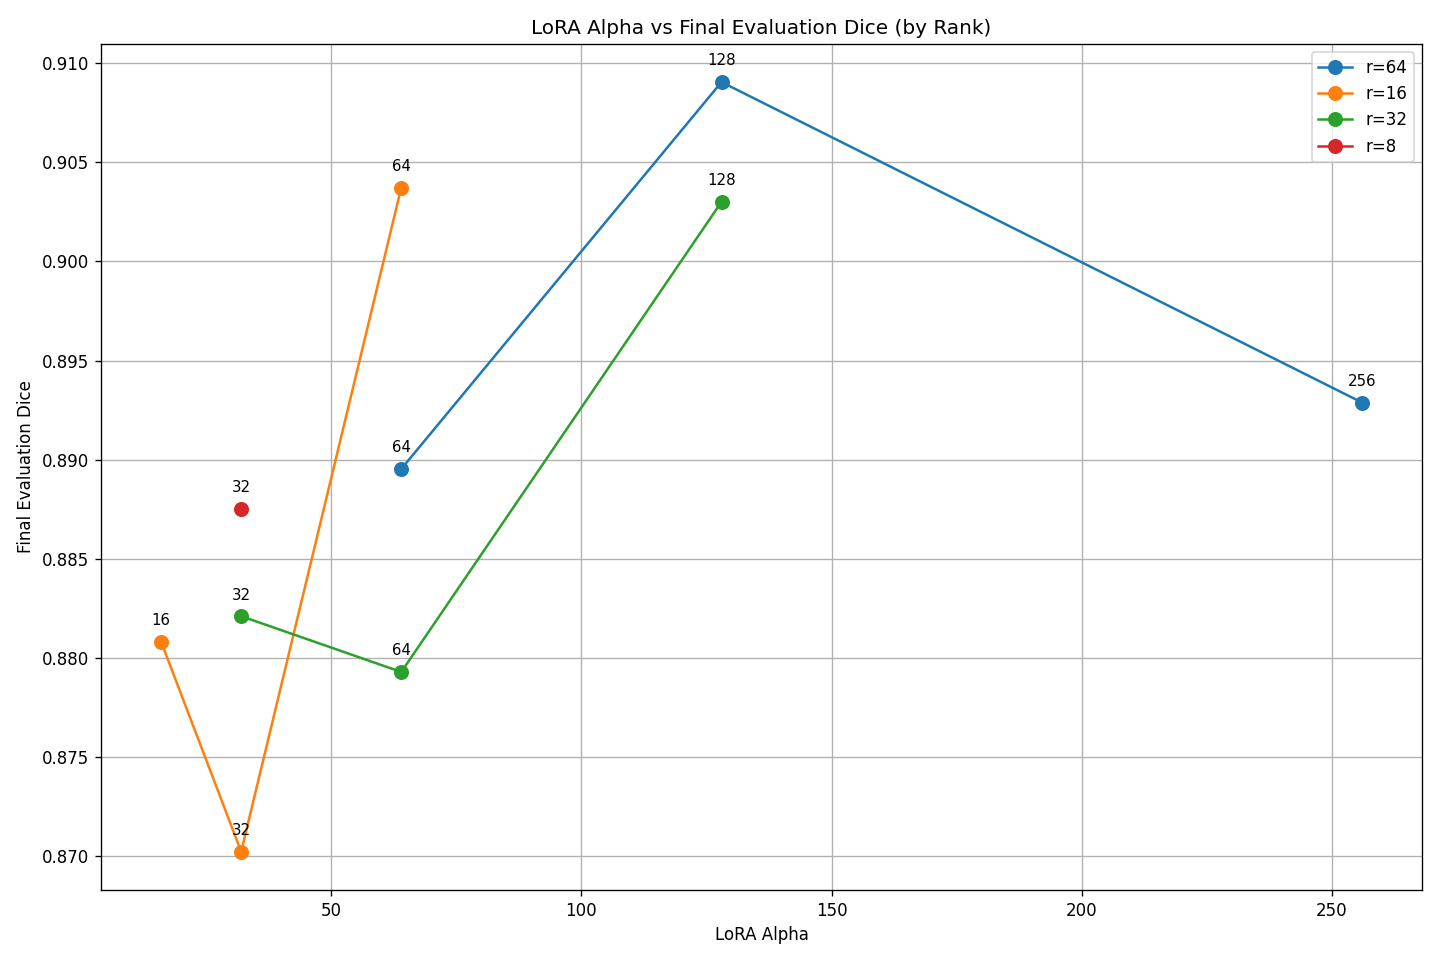
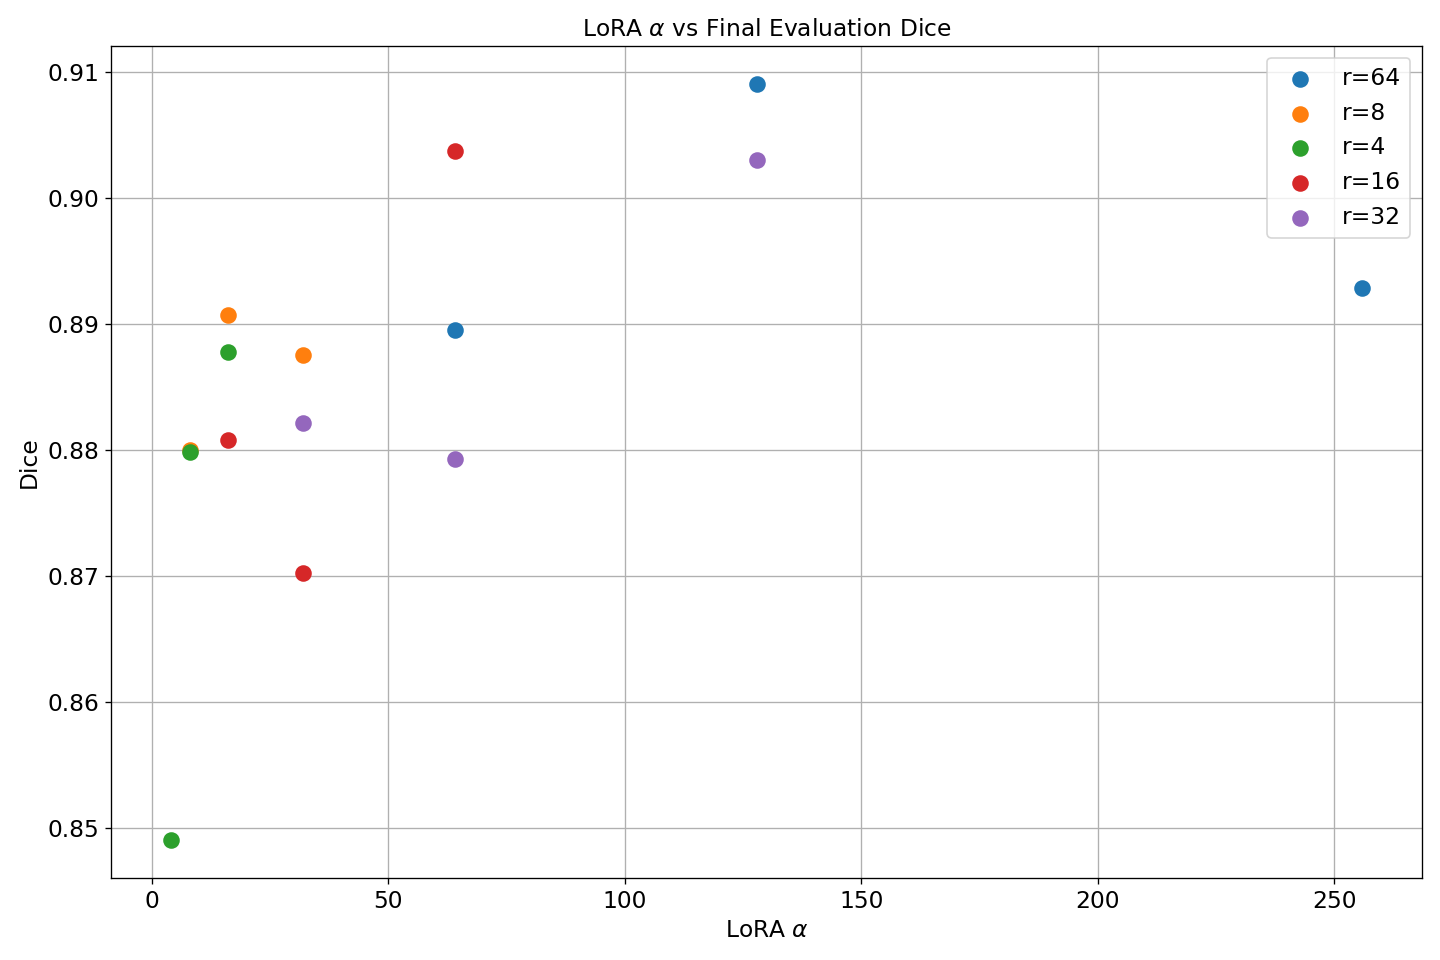
updated the plots

diff --git a/scripts/extract_metrics.py b/scripts/extract_metrics.py
@@ -11,6 +11,9 @@ from typing import Dict, List
 from segpeft.metrics import Metrics
 import matplotlib.pyplot as plt
 import numpy as np
+import zipfile
+import tempfile
+import shutil
 
 
 def extract_metrics_from_folder(folder_path: str) -> Dict:
@@ -93,6 +96,31 @@ def extract_all_metrics(outputs_dir: str = "./outputs") -> Dict:
                     results[folder_name] = metrics
                 except Exception as e:
                     print(f"Error processing {folder_name}: {str(e)}")
+            else:
+                # Some folders have the files in a subfolder (like 'final', or in the case of the non-results folders,
+                # the files are directly in a subfolder like lora_r4_alpha16/lora_r4_alpha16/)
+                for subfolder_name in os.listdir(folder_path):
+                    subfolder_path = os.path.join(folder_path, subfolder_name)
+                    if os.path.isdir(subfolder_path):
+                        sub_csv_path = os.path.join(
+                            subfolder_path, "training_history.csv"
+                        )
+                        sub_yaml_path = os.path.join(subfolder_path, "all_metrics.json")
+
+                        if os.path.exists(sub_csv_path) and os.path.exists(
+                            sub_yaml_path
+                        ):
+                            print(f"Processing {folder_name}/{subfolder_name}...")
+                            try:
+                                metrics = extract_metrics_from_folder(subfolder_path)
+                                results[folder_name] = (
+                                    metrics  # Use parent folder name as key
+                                )
+                                break  # Found the files, stop searching in subfolders
+                            except Exception as e:
+                                print(
+                                    f"Error processing {folder_name}/{subfolder_name}: {str(e)}"
+                                )
 
     return results
 
@@ -163,29 +191,21 @@ def create_plots(metrics_dict: Dict):
                 ranks[rank]["dices"].append(final_eval_dice)
                 ranks[rank]["folders"].append(folder_name)
 
-        # Plot for each rank, connecting the dots
+        # Plot for each rank, without connecting the dots and without alpha value labels
         for rank, data in ranks.items():
-            # Sort by alpha to have a proper line
+            # Sort by alpha
             sorted_data = sorted(zip(data["alphas"], data["dices"], data["folders"]))
             sorted_alphas, sorted_dices, sorted_folders = zip(*sorted_data)
 
-            ax.plot(sorted_alphas, sorted_dices, "o-", label=f"r={rank}", markersize=8)
+            ax.scatter(sorted_alphas, sorted_dices, label=f"r={rank}", s=80, zorder=5)
 
-            # Add alpha value labels to each point
-            for x, y, alpha_val in zip(sorted_alphas, sorted_dices, sorted_alphas):
-                ax.annotate(
-                    f"{alpha_val}",
-                    (x, y),
-                    textcoords="offset points",
-                    xytext=(0, 10),
-                    ha="center",
-                    fontsize=9,
-                )
-
-        ax.set_xlabel("LoRA Alpha")
-        ax.set_ylabel("Final Evaluation Dice")
-        ax.set_title("LoRA Alpha vs Final Evaluation Dice (by Rank)")
-        ax.legend()
+        ax.set_xlabel(r"LoRA $\alpha$", fontsize=14)
+        ax.set_ylabel("Dice", fontsize=14)
+        ax.set_title(r"LoRA $\alpha$ vs Final Evaluation Dice", fontsize=14)
+        ax.tick_params(
+            axis="both", which="major", labelsize=14
+        )  # Increase tick label font size
+        ax.legend(fontsize=14)
         ax.grid(True)
         plt.tight_layout()
         plt.savefig("./outputs/lora_alpha_vs_dice.png", dpi=120)
@@ -243,10 +263,13 @@ def create_plots(metrics_dict: Dict):
                 linestyle="-",
             )
 
-        ax.set_xlabel("Epochs")
-        ax.set_ylabel("Loss")
-        ax.set_title("Epochs vs Loss - Best LoRA vs Full Fine-tuning")
-        ax.legend()
+        ax.set_xlabel("Epochs", fontsize=14)
+        ax.set_ylabel("Loss", fontsize=14)
+        ax.set_title("Epochs vs Loss - Best LoRA vs Full Fine-tuning", fontsize=14)
+        ax.tick_params(
+            axis="both", which="major", labelsize=14
+        )  # Increase tick label font size
+        ax.legend(fontsize=14)
         ax.grid(True)
         plt.tight_layout()
         plt.savefig("./outputs/epochs_vs_loss.png", dpi=120)
@@ -275,9 +298,9 @@ def create_plots(metrics_dict: Dict):
                 ranks[rank]["alphas"].append(alpha)  # Store alpha for labeling
                 ranks[rank]["folders"].append(folder_name)
 
-        # Plot for each rank, connecting the dots
+        # Plot for each rank, without connecting the dots (as requested)
         for rank, data in ranks.items():
-            ax.plot(data["times"], data["dices"], "o-", label=f"r={rank}", markersize=8)
+            ax.scatter(data["times"], data["dices"], label=f"r={rank}", s=80, zorder=5)
 
             # Add alpha value labels to each point
             for x, y, alpha_val in zip(data["times"], data["dices"], data["alphas"]):
@@ -287,7 +310,8 @@ def create_plots(metrics_dict: Dict):
                     textcoords="offset points",
                     xytext=(0, 10),
                     ha="center",
-                    fontsize=9,
+                    fontsize=14,
+                    zorder=6,
                 )
 
         # Plot baseline (full fine-tuning) separately
@@ -305,10 +329,13 @@ def create_plots(metrics_dict: Dict):
                 )
                 # No label for full fine-tuning as requested
 
-        ax.set_xlabel("Training Time (seconds)")
-        ax.set_ylabel("Final Evaluation Dice")
-        ax.set_title("Dice vs Training Time")
-        ax.legend()
+        ax.set_xlabel("Training Time (seconds)", fontsize=14)
+        ax.set_ylabel("Final Evaluation Dice", fontsize=14)
+        ax.set_title("Dice vs Training Time", fontsize=14)
+        ax.tick_params(
+            axis="both", which="major", labelsize=14
+        )  # Increase tick label font size
+        ax.legend(fontsize=14)
         ax.grid(True)
         plt.tight_layout()
         plt.savefig("./outputs/dice_vs_training_time.png", dpi=120)
@@ -340,10 +367,13 @@ def create_plots(metrics_dict: Dict):
                 linestyle="-",
             )
 
-        ax.set_xlabel("Epochs")
-        ax.set_ylabel("Dice")
-        ax.set_title("Epochs vs Dice - Best LoRA vs Full Fine-tuning")
-        ax.legend()
+        ax.set_xlabel("Epochs", fontsize=14)
+        ax.set_ylabel("Dice", fontsize=14)
+        ax.set_title("Epochs vs Dice - Best LoRA vs Full Fine-tuning", fontsize=14)
+        ax.tick_params(
+            axis="both", which="major", labelsize=14
+        )  # Increase tick label font size
+        ax.legend(fontsize=14)
         ax.grid(True)
         plt.tight_layout()
         plt.savefig("./outputs/epochs_vs_dice.png", dpi=120)
